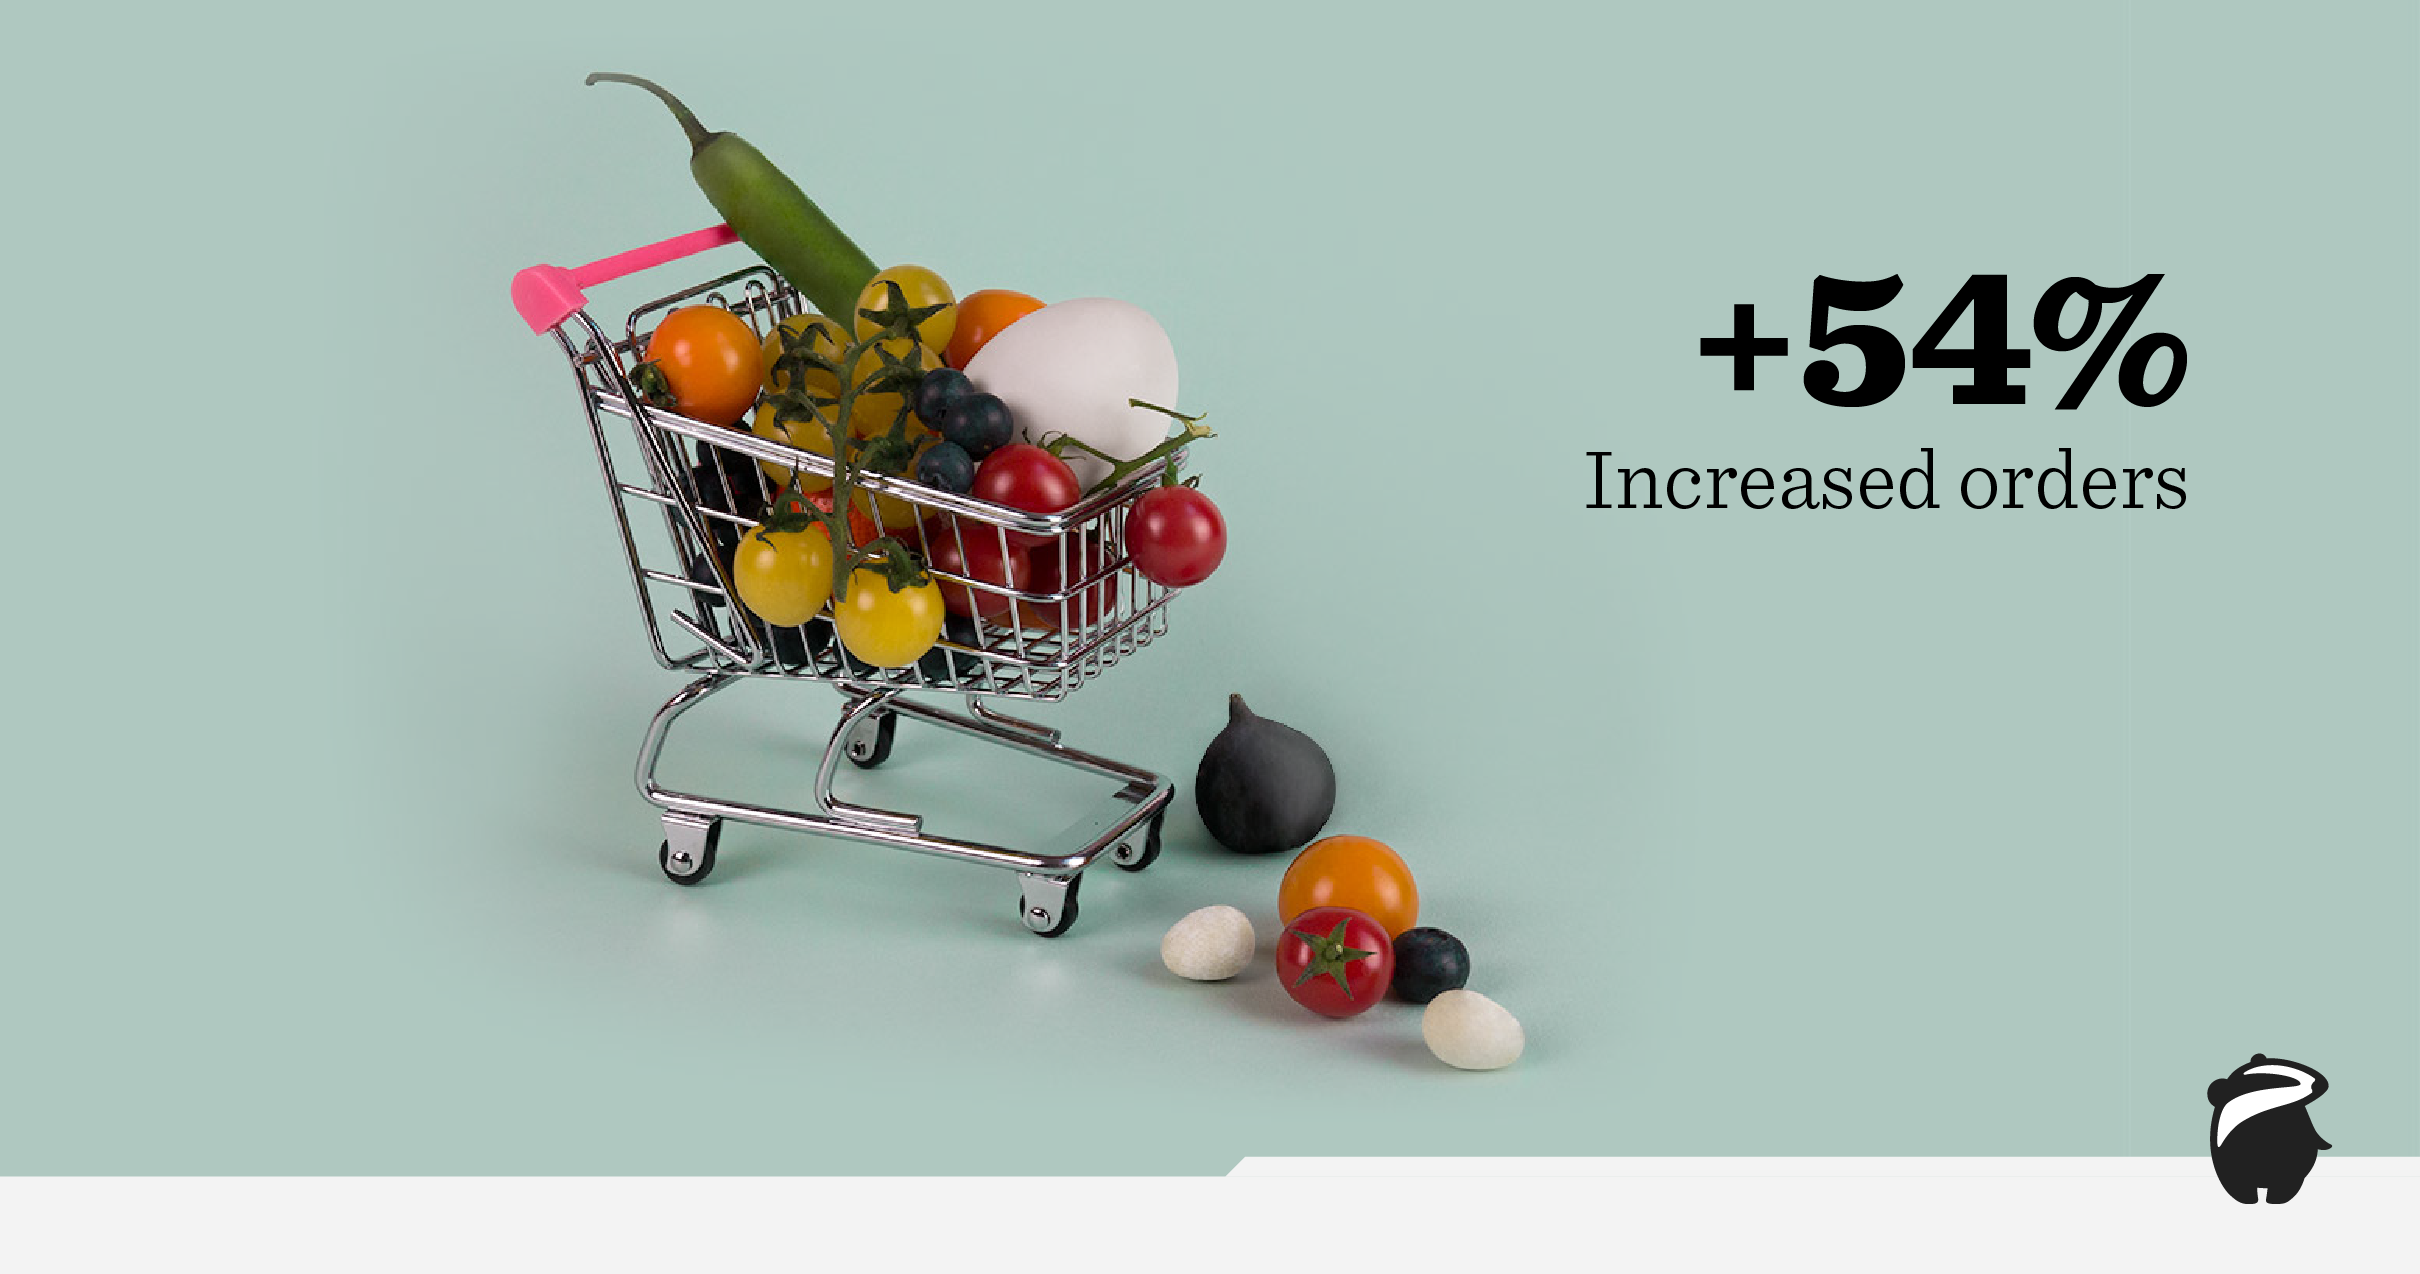
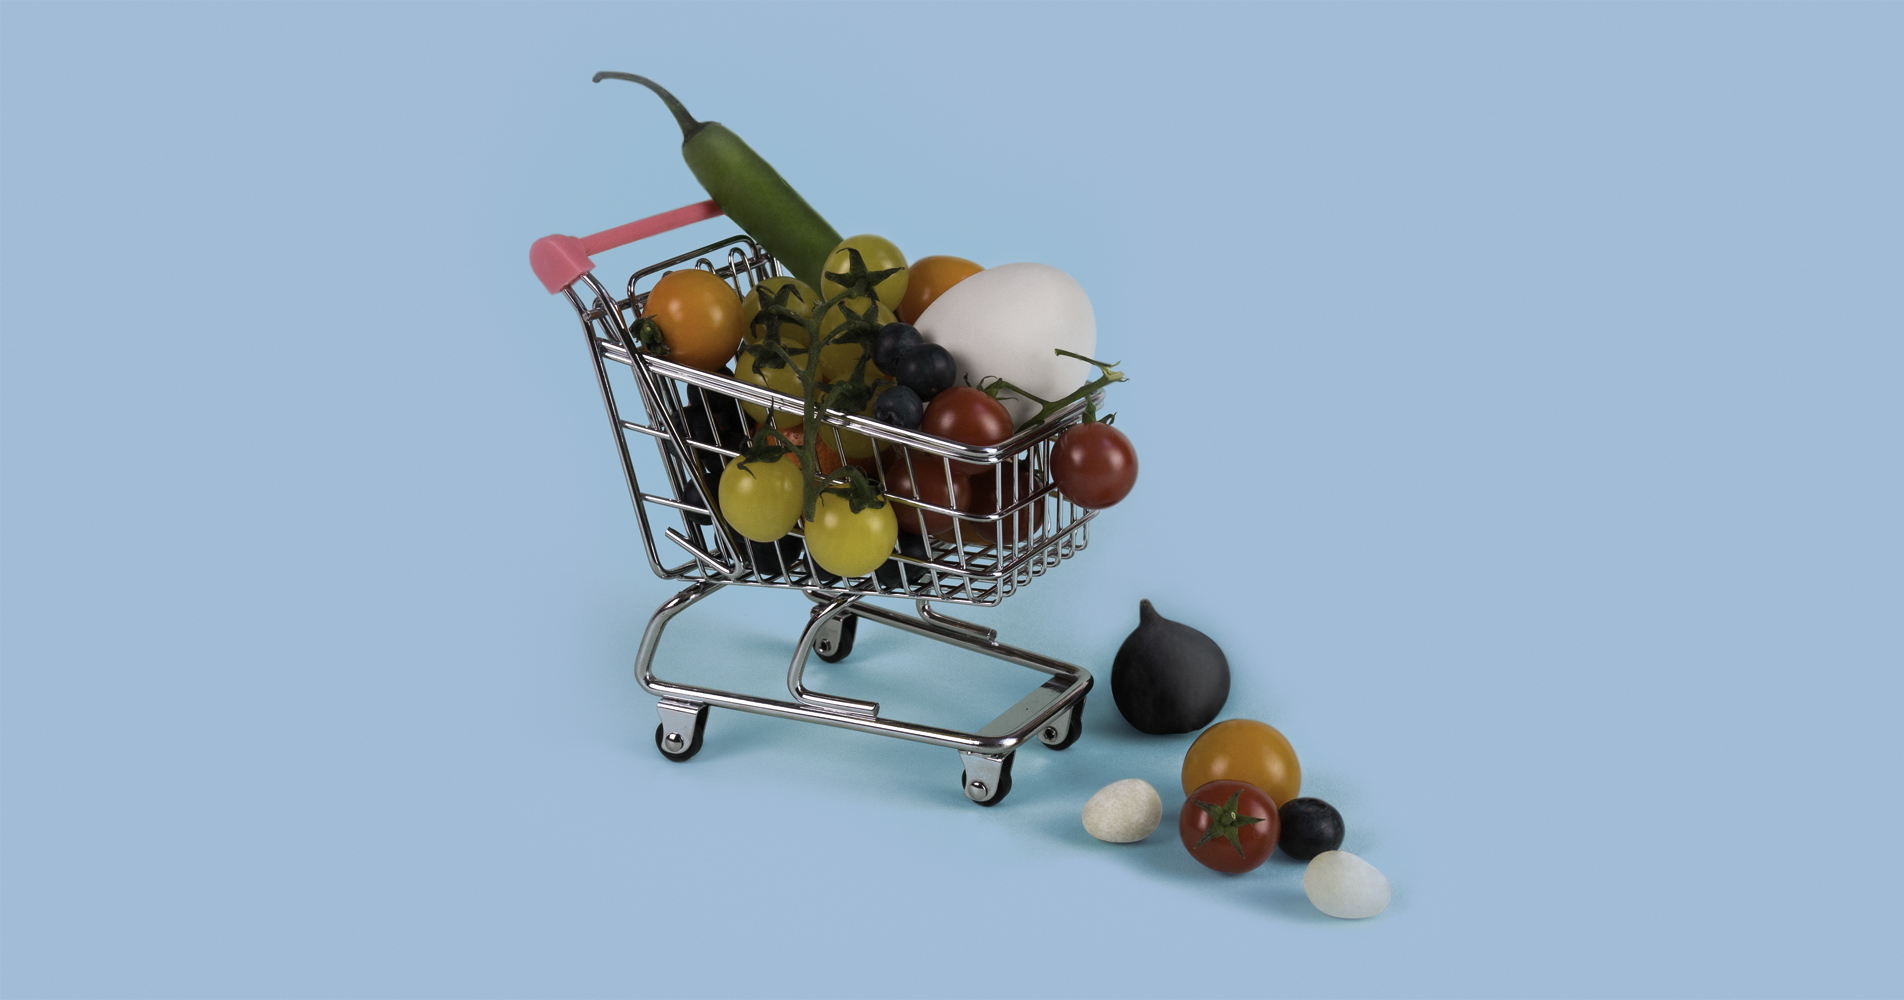
Replace retailer color by #8dcce0

diff --git a/site/pages/our-work/case-study-retailer-slice/index.js b/site/pages/our-work/case-study-retailer-slice/index.js
@@ -2,7 +2,7 @@ import React from 'react';
 import styles from './style.css';
 import Link from '../../../components/link';
 
-import retailerImage from './images/retailer.png';
+import retailerImage from './images/retailer.jpg';
 
 export default () => (
   <div className={styles.caseStudyContainer}>

diff --git a/site/pages/our-work/case-study-retailer-slice/style.css b/site/pages/our-work/case-study-retailer-slice/style.css
@@ -31,7 +31,7 @@ _:-ms-fullscreen, :root .imageLink {
 .imageContainer {
   min-width: 260px;
   min-height: 205px;
-  background-color: #abc9c1;
+  background-color: #8dcce0;
   position: relative;
 }
 

diff --git a/site/pages/our-work/case-study/retailer/style.css b/site/pages/our-work/case-study/retailer/style.css
@@ -11,7 +11,7 @@
 
 .header {
   width: 100%;
-  background-color: #abc9c1;
+  background-color: #8dcce0;
   margin-bottom: 10px;
 }
 
